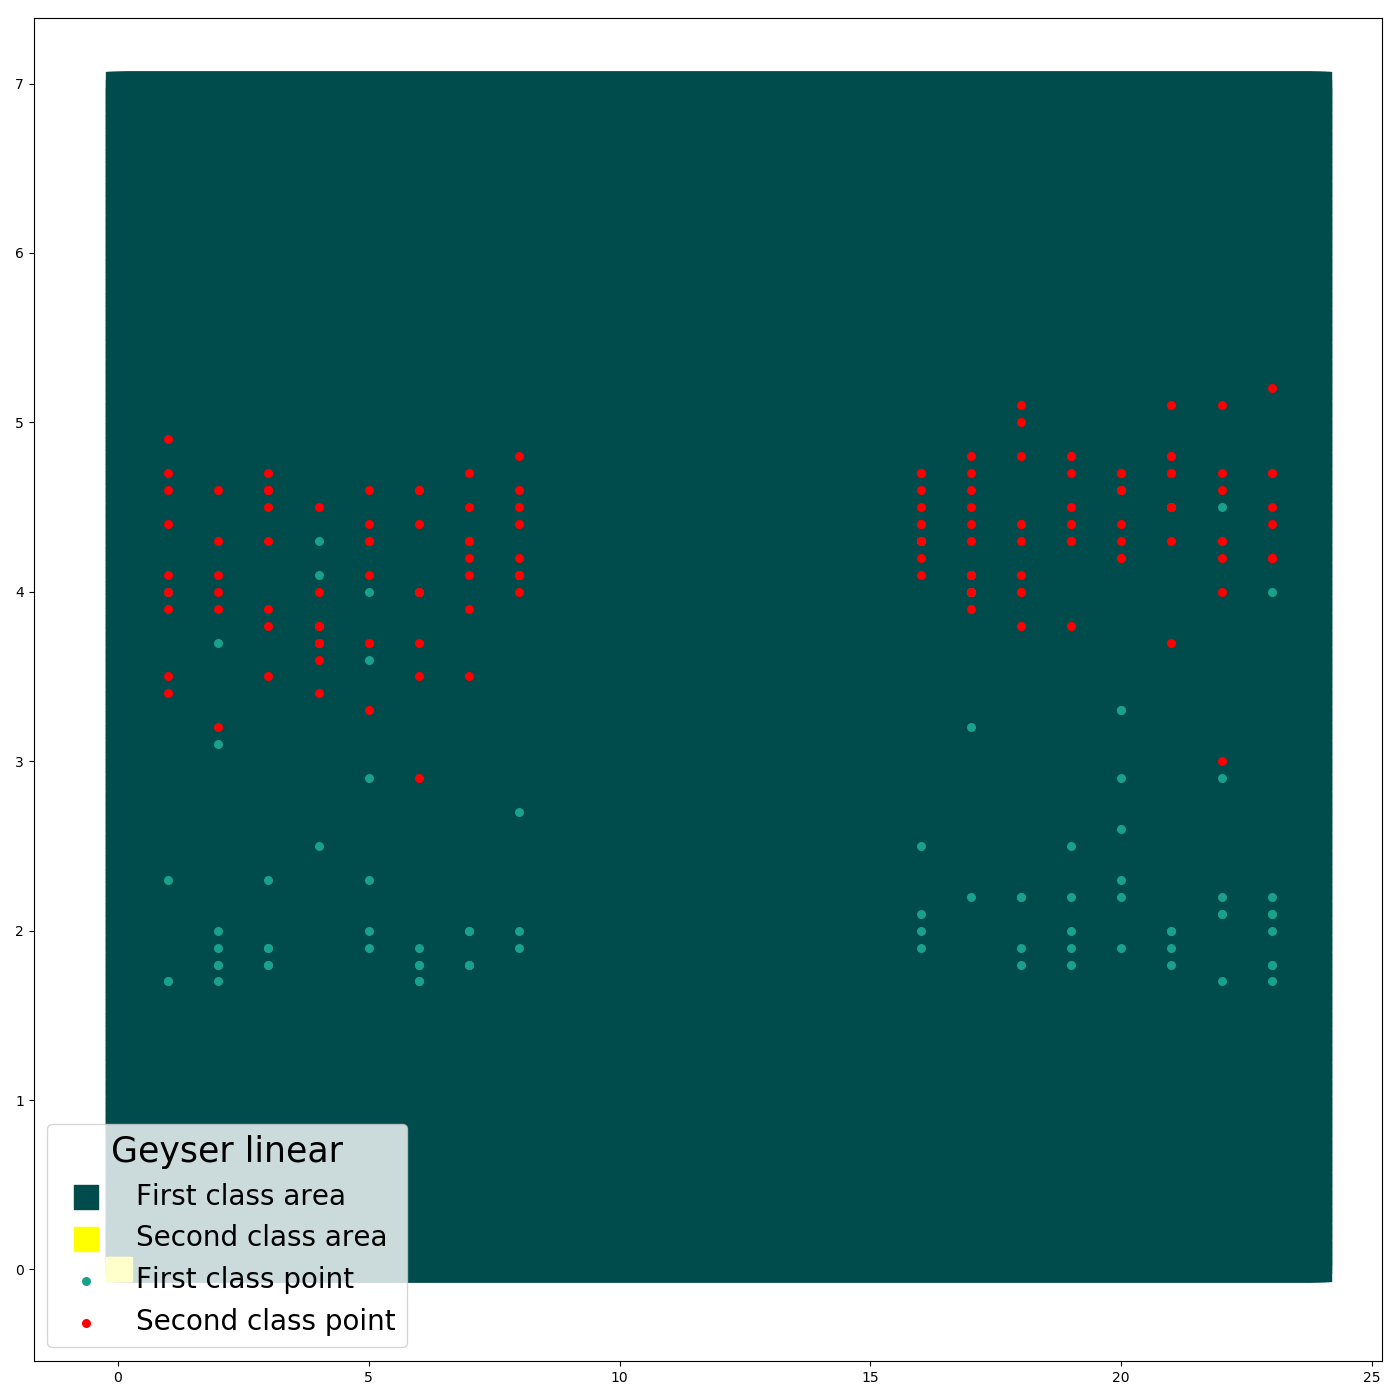
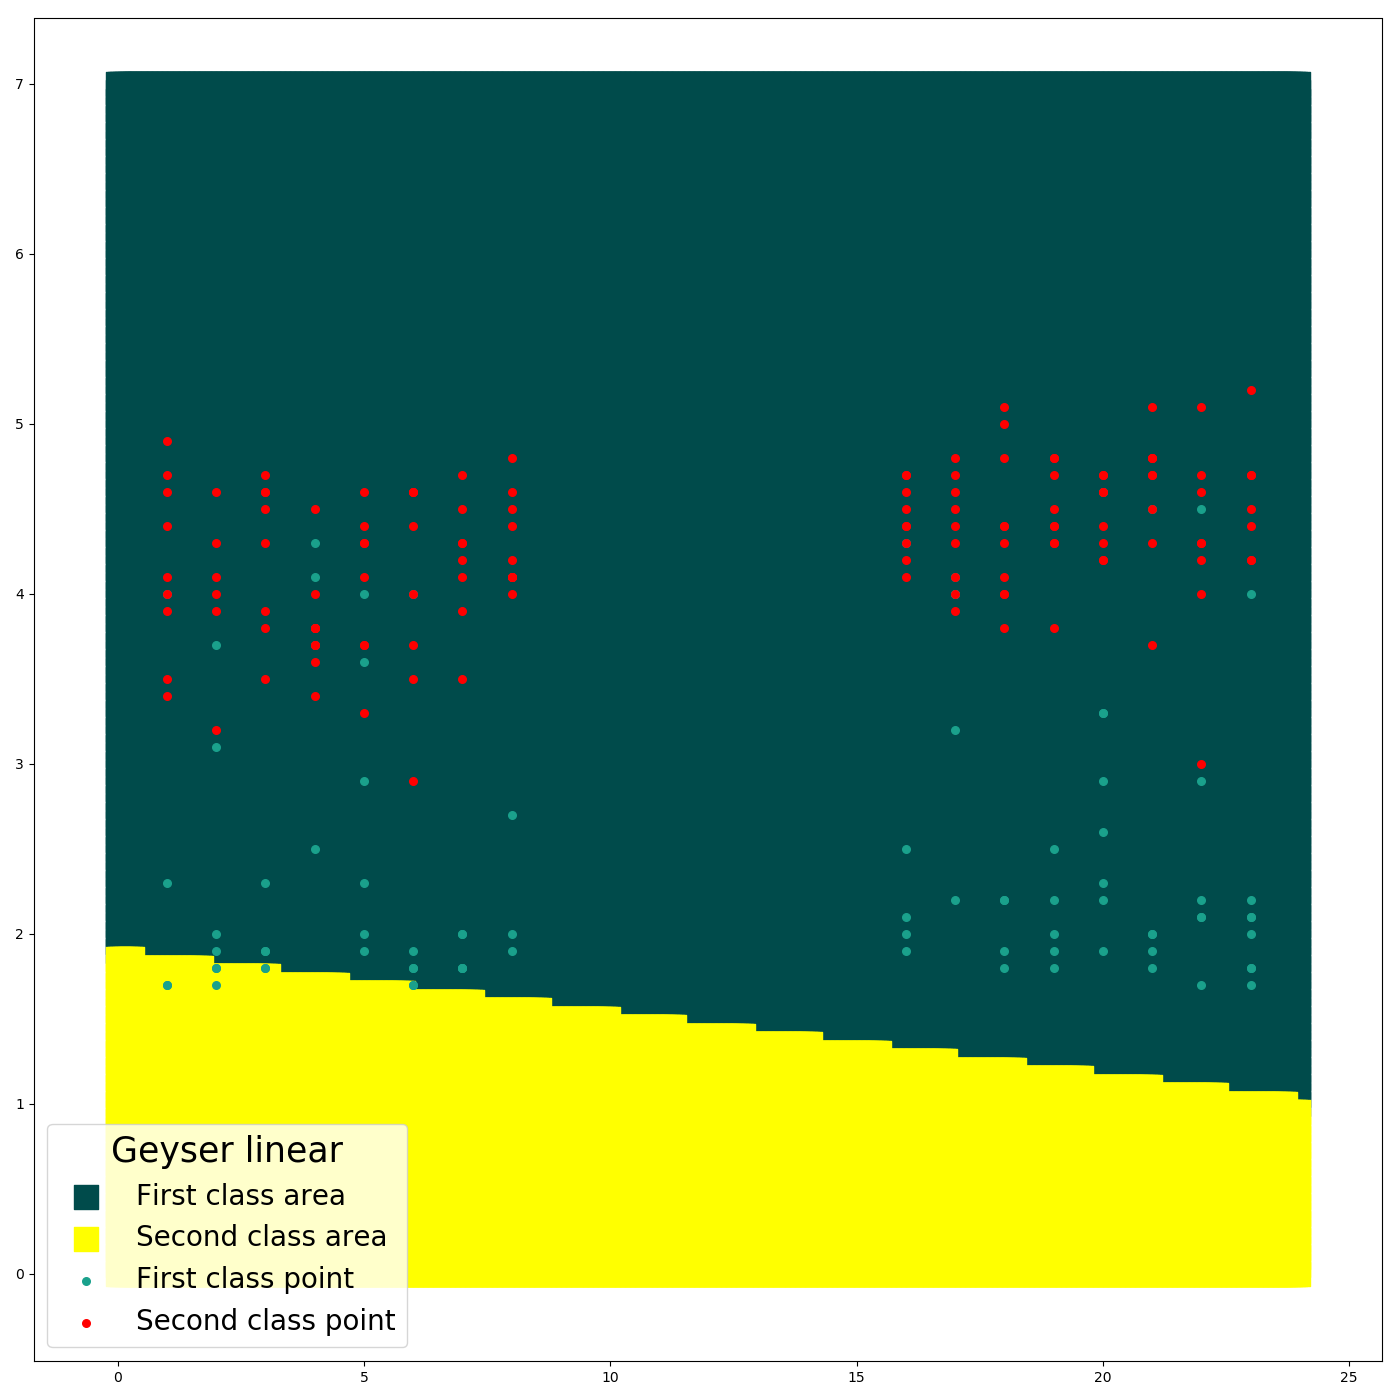
Maybe done

diff --git a/main.py b/main.py
@@ -7,12 +7,15 @@ eps = 0.0000000001
 
 polynomialDegrees = [2, 3, 4, 5]
 sectionForGaussian = [1, 5]
-kernels = ["linear", "polynomial", "gaussian"]
 C = [0.05, 0.1, 0.5, 1.0, 5.0, 10.0, 50.0, 100.0]
 p = 2  # coef to polynomial kernel
 b = 1  # coef to gaussian kernel
 freeCoef = 0
+
+computedKernel = [[]]
+
 currentDatasetNumber = 0
+kernels = ["linear", "polynomial", "gaussian"]
 listOfNames = ["Chips", "Geyser"]
 listOfKernelResults = [{"linear": 200.0, "polynomial": 200.0, "gaussian": 200.0},
                        {"linear": 200.0, "polynomial": 200.0, "gaussian": 200.0}]
@@ -27,8 +30,15 @@ def computeKernel(name, x1, x2):
     elif name == "polynomial":
         return (1 + numpy.dot(x1, x2)) ** p
     elif name == "gaussian":
-        return numpy.exp(numpy.multiply(b, numpy.power(numpy.linalg.norm(numpy.array(x1) - numpy.array(x2)), 2)))
+        return numpy.exp(numpy.multiply(-b, numpy.power(numpy.linalg.norm(numpy.array(x1) - numpy.array(x2)), 2)))
     return 0
+
+
+def precalcKernel(name, features):
+    global computedKernel
+    for i in range(len(features)):
+        for j in range(len(features)):
+            computedKernel[i][j] = computeKernel(name, features[i], features[j])
 
 
 def getClass(x):
@@ -37,25 +47,25 @@ def getClass(x):
     return -1
 
 
-def computeE(coefs, i, kernel, features, classes):
-    return sum([getClass(classes[j]) * coefs[j] * computeKernel(kernel, features[j], features[i]) for j in
+def computeE(coefs, i, classes):
+    return sum([getClass(classes[j]) * coefs[j] * computedKernel[i][j] for j in
                 range(0, len(classes))]) - getClass(classes[i])
 
 
-def computeError(coefs, kernel, features, classes):
+def computeError(coefs, classes):
     wrong = 0
     for i in range(len(classes)):
-        predicted = numpy.sign(computeE(coefs, i, kernel, features, classes) + freeCoef)
+        predicted = numpy.sign(computeE(coefs, i, classes) + freeCoef)
         if predicted != getClass(classes[i]):
             wrong += 1
     return wrong * 100 / len(classes)
 
 
-def computeSVM(coefs, kernel, c, features, classes):
-    global freeCoef
+def computeSVM(coefs, kernel, c, classes):
+    global freeCoef, computedKernel
     datasetLen = len(classes)
-    tmpCoefs = [0 for i in range(datasetLen)]
-    for iter in range(1):
+    tmpCoefs = [0 for _ in range(datasetLen)]
+    for _ in range(1000):
         shuffledArray = [i for i in range(0, datasetLen)]
         random.shuffle(shuffledArray)
         for step in range(0, datasetLen):
@@ -72,18 +82,16 @@ def computeSVM(coefs, kernel, c, features, classes):
                 H = min(c, tmpCoefs[j] + tmpCoefs[i])
 
             if abs(L - H) >= eps:
-                eta = computeKernel(kernel, features[i], features[i]) + \
-                      computeKernel(kernel, features[j], features[j]) - 2 * computeKernel(kernel, features[i],
-                                                                                          features[j])
+                eta = computedKernel[i][i] + computedKernel[j][j] - 2 * computedKernel[i][j]
                 if eta > eps:
                     newCoef = tmpCoefs[j] + getClass(classes[j]) * \
-                              (computeE(tmpCoefs, i, kernel, features, classes) - computeE(tmpCoefs, j, kernel,
-                                                                                           features, classes)) / eta
+                              (computeE(tmpCoefs, i, classes) - computeE(tmpCoefs, j, classes)) / eta
                     newCoef = min(H, max(L, newCoef))
                     if abs(newCoef - tmpCoefs[j]) < eps:
                         continue
-                    tmpCoefs[i] += getClass(i) * getClass(j) * (tmpCoefs[j] - newCoef)
+                    tmpCoefs[i] += getClass(classes[i]) * getClass(classes[j]) * (tmpCoefs[j] - newCoef)
                     tmpCoefs[j] = newCoef
+
     pos = 0
     while pos < datasetLen and (tmpCoefs[pos] < eps or tmpCoefs[pos] > c - eps):
         pos += 1
@@ -92,7 +100,7 @@ def computeSVM(coefs, kernel, c, features, classes):
         cnt = 0
         for i in range(datasetLen):
             for j in range(datasetLen):
-                res -= tmpCoefs[j] * getClass(classes[j]) * computeKernel(kernel, features[i], features[j])
+                res -= tmpCoefs[j] * getClass(classes[j]) * computedKernel[i][j]
             res += getClass(classes[i])
             cnt += 1
 
@@ -103,11 +111,11 @@ def computeSVM(coefs, kernel, c, features, classes):
     else:
         res = 0
         for i in range(datasetLen):
-            res -= tmpCoefs[i] * getClass(classes[i]) * computeKernel(kernel, features[pos], features[i])
+            res -= tmpCoefs[i] * getClass(classes[i]) * computedKernel[pos][i]
         res += getClass(classes[pos])
         freeCoef = res
 
-    err = computeError(tmpCoefs, kernel, features, classes)
+    err = computeError(tmpCoefs, classes)
     if err < listOfKernelResults[currentDatasetNumber][kernel]:
         listOfKernelResults[currentDatasetNumber][kernel] = err
         param = -1
@@ -123,10 +131,10 @@ def computeSVM(coefs, kernel, c, features, classes):
 def drawGraph(coefs, kernel, features, classes):
     size = 30
 
-    backgroundFX = []
-    backgroundFY = []
-    backgroundSX = []
-    backgroundSY = []
+    backgroundPX = []
+    backgroundPY = []
+    backgroundNX = []
+    backgroundNY = []
 
     y, step = -2 if currentDatasetNumber == 0 else 0, 0.05
     yCond = 1.5 if currentDatasetNumber == 0 else 7
@@ -138,28 +146,28 @@ def drawGraph(coefs, kernel, features, classes):
             for i in range(len(classes)):
                 res += getClass(classes[i]) * coefs[i] * computeKernel(kernel, [x, y], features[i])
 
-            if res < - eps:
-                backgroundFX.append(x)
-                backgroundFY.append(y)
-            elif res > eps:
-                backgroundSX.append(x)
-                backgroundSY.append(y)
+            if res >= eps:
+                backgroundPX.append(x)
+                backgroundPY.append(y)
+            elif res < -eps:
+                backgroundNX.append(x)
+                backgroundNY.append(y)
             x += step
         y += step
 
     fig, ax = plt.subplots()
 
-    ax.scatter(backgroundFX, backgroundFY, marker='s', c=[[0 / 255.0, 75 / 255.0, 75 / 255.0]], s=size * 10,
-               label="First class area")
-    ax.scatter(backgroundSX, backgroundSY, marker='s', c=[[1, 1, 0]], s=size * 10, label="Second class area")
+    ax.scatter(backgroundPX, backgroundPY, marker='s', c=[[0 / 255.0, 75 / 255.0, 75 / 255.0]], s=size * 5,
+               label="P class area")
+    ax.scatter(backgroundNX, backgroundNY, marker='s', c=[[1, 1, 0]], s=size * 10, label="N class area")
 
     firstClassX = [features[i][0] for i in range(len(classes)) if getClass(classes[i]) == 1]
     firstClassY = [features[i][1] for i in range(len(classes)) if getClass(classes[i]) == 1]
     secondClassX = [features[i][0] for i in range(len(classes)) if getClass(classes[i]) == -1]
     secondClassY = [features[i][1] for i in range(len(classes)) if getClass(classes[i]) == -1]
 
-    ax.scatter(firstClassX, firstClassY, c=[[0.1, 0.63, 0.55]], s=size, label="First class point")
-    ax.scatter(secondClassX, secondClassY, c='r', s=size, label="Second class point")
+    ax.scatter(firstClassX, firstClassY, c=[[0.1, 0.63, 0.55]], s=size, label="P class point")
+    ax.scatter(secondClassX, secondClassY, c='r', s=size, label="N class point")
 
     fig.set_figwidth(14)
     fig.set_figheight(14)
@@ -172,15 +180,12 @@ def drawGraph(coefs, kernel, features, classes):
     fig.savefig(listOfNames[currentDatasetNumber] + " " + kernel)
 
 
-def printDictionary(dictionary, index, f):
-    for key, value in dictionary[index].items():
-        f.write("\t" + key + ": ")
-        f.write(str(value) + "\n")
-
-
 def solver(path):
-    global p, b
+    global p, b, computedKernel
     [features, classes] = Utils.getDataAndClasses(path)
+
+    computedKernel = [[0] * len(classes) for _ in range(len(classes))]
+
     features = features.values.tolist()
     classes = classes.values.tolist()
     forLinear = []  # коэфициеты для линейного ядра
@@ -190,16 +195,20 @@ def solver(path):
     for c in C:
         for kernel in kernels:
             if kernel == "linear":
-                computeSVM(forLinear, "linear", c, features, classes)
+                precalcKernel(kernel, features)
+                computeSVM(forLinear, kernel, c, classes)
             elif kernel == "polynomial":
                 for i in polynomialDegrees:
                     p = i
-                    computeSVM(forPolynomial, "polynomial", c, features, classes)
+                    precalcKernel(kernel, features)
+                    computeSVM(forPolynomial, kernel, c, classes)
             elif kernel == "gaussian":
                 step = 0.1
                 while b <= sectionForGaussian[1]:
-                    computeSVM(forGaussian, "gaussian", c, features, classes)
+                    precalcKernel(kernel, features)
+                    computeSVM(forGaussian, kernel, c, classes)
                     b += step
+
     f = open(listOfNames[currentDatasetNumber] + ".txt", "w")
     f.write("--" + listOfNames[currentDatasetNumber] + "--\n")
     f.write("Coefs:\n")
@@ -207,9 +216,9 @@ def solver(path):
     f.write(str(forPolynomial) + "\n")
     f.write(str(forGaussian) + "\n")
     f.write("Kernel errors:\n")
-    printDictionary(listOfKernelResults, currentDatasetNumber, f)
+    Utils.printDictionary(listOfKernelResults, currentDatasetNumber, f)
     f.write("Kernels param:\n")
-    printDictionary(listOfBestKernelParams, currentDatasetNumber, f)
+    Utils.printDictionary(listOfBestKernelParams, currentDatasetNumber, f)
     f.write("Best C param: " + str(listOfBestC[currentDatasetNumber]) + "\n")
     f.close()
     drawGraph(forLinear, "linear", features, classes)
@@ -218,10 +227,11 @@ def solver(path):
 
 
 def reeinitParameters():
-    global p, b, freeCoef
+    global p, b, freeCoef, computedKernel
     p = 2
     b = 1
     freeCoef = 0
+    computedKernel.clear()
 
 
 solver("datasets/chips.csv")

diff --git a/Utils.py b/Utils.py
@@ -6,3 +6,9 @@ def getDataAndClasses(path):
     features = data[['x', 'y']]
     classes = data['class']
     return [features, classes]
+
+
+def printDictionary(dictionary, index, f):
+    for key, value in dictionary[index].items():
+        f.write("\t" + key + ": ")
+        f.write(str(value) + "\n")
